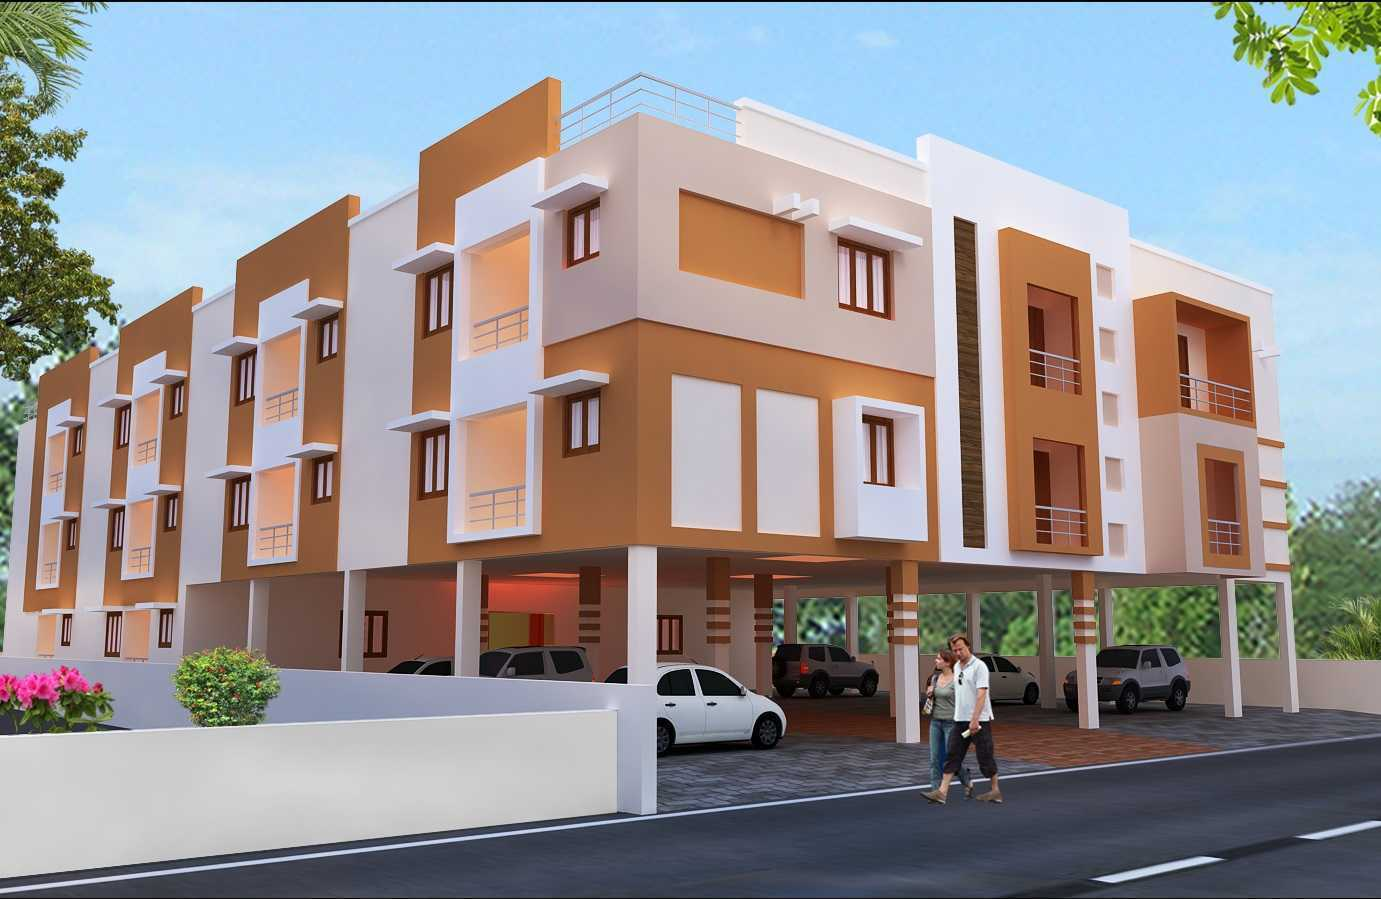
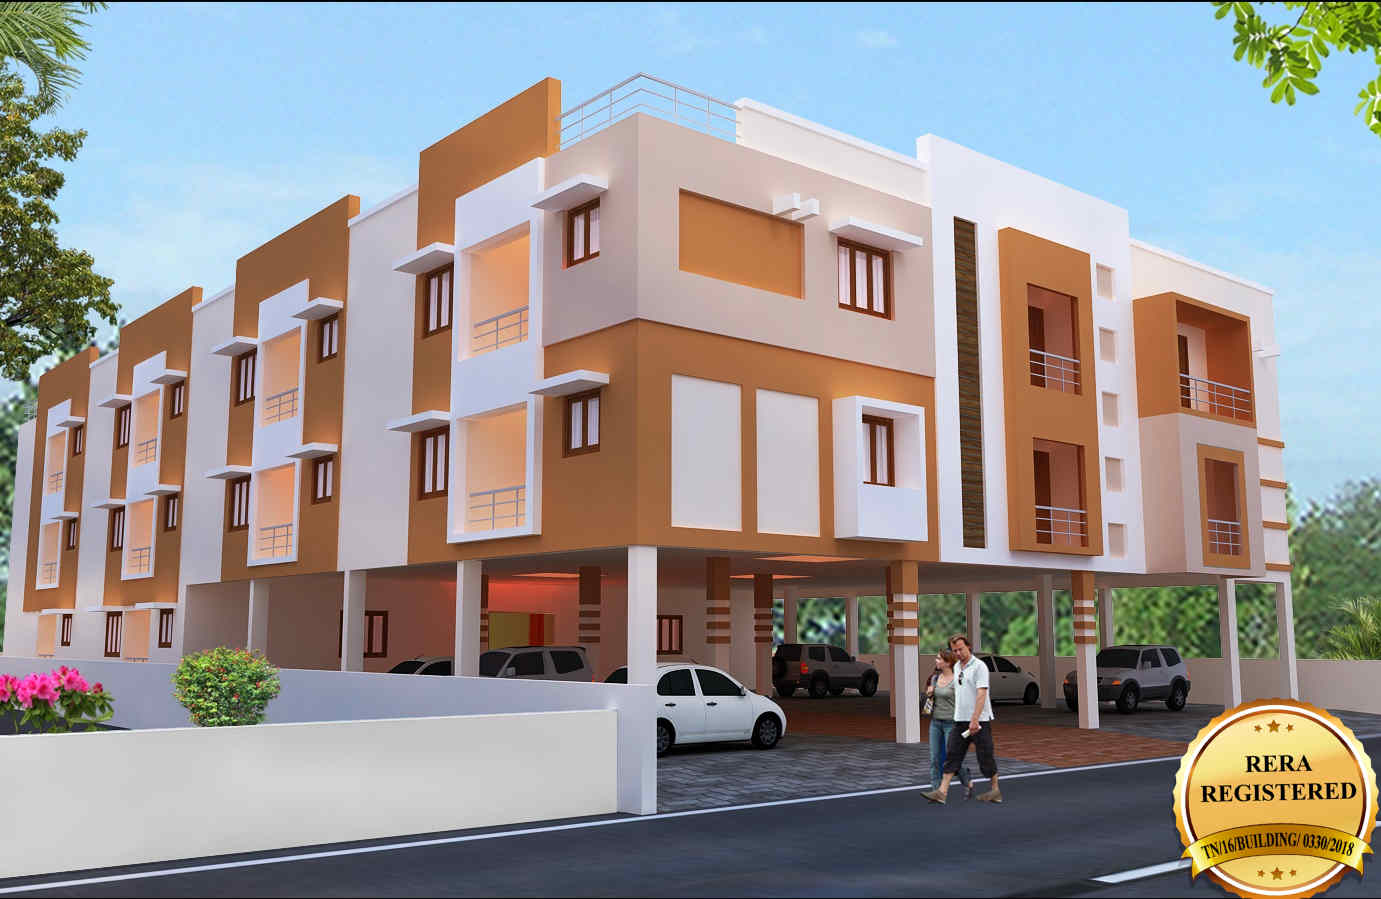
rera, credai added, times font, column layout in about

diff --git a/src/views/About.vue b/src/views/About.vue
@@ -2,13 +2,47 @@
   <div id="contact-page">
     <div class="h-300 pinot-noir__gradient">
       <div class="c c-white flex flex-col flex-aic flex-jcc h-100p">
-        <h2>MV Builders</h2>
+        <h2 class="times ttu">MV Builders</h2>
         <h5>Our improvement directly relates to our Experience</h5>
       </div>
     </div>
-    <div class="c">
-      <h2 class="c tac">MV Builders <br> <small class="mono">yours friendly Companion</small></h2>
+    <div class="c" hidden="true">
+      <h2 class="c tac times ttu">MV Builders<br> <small class="mono">yours friendly Companion</small></h2>
       <p class="para d-center"><span>We are widely known for lucid way of choosing grounds for construction in green expansive environment. Our immense experience in apartment building with affordable price range attracts the buyers easily. We also provide clear title and legal opinion from eminent lawyers. Our floor plans according to vasthu and sense of architecture with day light optimization, ventillation optimization, etc., are quite impressive. We are well known for using quality tools in construction, quality workers and quality jobs to provide complete housing solution.</span></p>
+      <h2 class="c tac">Our Growth</h2>
+      <p class="para d-center">Our best way of marketing is from the word of mouth from our existing satisfied customers becomes a member of MV family. We proudly say that all the families are living in a friendly healthy ambience from the day of moving in to our homes.</p>
+      <h2 class="c tac">Our Quality</h2>
+      <p class="para d-center">Quiet and experienced masonary teams, accurate finishing carpentry workers, excellent knowledgeable electricians, plumbers from their mother land of Orissa. Quality and updated painters will add on our profile for a very long duration as we are constantly engaging the same team for our works from 2001 onwards.</p>
+      <p class="para d-center">Even after completion of various projects small maintenance works requires by the esteemed clients be attended at their convenient time.</p>
+      <h2 class="c tac">Our Mantra</h2>
+      <p class="para d-center">All our projects earlier and now are situated in a lush green environment and we have a policy to provide a healthy positive atmosphere for the clients, daylight optimized architecture, adequate water supply, sanitary, road facilities and in particular (good uninterupted ) electric supply. In addition all our projects each house will have a marked car parking slot, modular kitchenate for kitchens, builtin wardrobes, lofts and lockers with wooden interiors for the bedrooms.</p>
+      <h2 class="c tac">Our Guides</h2>
+      <p class="para d-center">We got professional guidance from our beloved architect having experienced and specialized in floor plans plotted as per vasthu specifications and a good support from our structural consultant having the details in support to our architects vision. We proudly confers all our apartment buildings so far sold and doing now are with 100 percent vasthu compliance.</p>
+    </div>
+    <div class="c">
+      <h2 class="c tac times ttu">MV Builders<br> <small class="mono">yours friendly Companion</small></h2>
+      <p class="para d-center"><span>We are widely known for lucid way of choosing grounds for construction in green expansive environment. Our immense experience in apartment building with affordable price range attracts the buyers easily. We also provide clear title and legal opinion from eminent lawyers. Our floor plans according to vasthu and sense of architecture with day light optimization, ventillation optimization, etc., are quite impressive. We are well known for using quality tools in construction, quality workers and quality jobs to provide complete housing solution.</span></p>
+      <div class="row">
+        <div class="col-md2">
+          <h2 class="c tac">Our Growth</h2>
+          <p class="para d-center">Our best way of marketing is from the word of mouth from our existing satisfied customers becomes a member of MV family. We proudly say that all the families are living in a friendly healthy ambience from the day of moving in to our homes.</p>
+        </div>
+        <div class="col-md2">
+          <h2 class="c tac">Our Quality</h2>
+          <p class="para d-center">Quiet and experienced masonary teams, accurate finishing carpentry workers, excellent knowledgeable electricians, plumbers from their mother land of Orissa. Quality and updated painters will add on our profile for a very long duration as we are constantly engaging the same team for our works from 2001 onwards.</p>
+          <p class="para d-center">Even after completion of various projects small maintenance works requires by the esteemed clients be attended at their convenient time.</p>
+        </div>
+      </div>
+      <div class="row">
+        <div class="col-md2">
+          <h2 class="c tac">Our Mantra</h2>
+          <p class="para d-center">All our projects earlier and now are situated in a lush green environment and we have a policy to provide a healthy positive atmosphere for the clients, daylight optimized architecture, adequate water supply, sanitary, road facilities and in particular (good uninterupted ) electric supply. In addition all our projects each house will have a marked car parking slot, modular kitchenate for kitchens, builtin wardrobes, lofts and lockers with wooden interiors for the bedrooms.</p>
+        </div>
+        <div class="col-md2">
+          <h2 class="c tac">Our Guides</h2>
+          <p class="para d-center">We got professional guidance from our beloved architect having experienced and specialized in floor plans plotted as per vasthu specifications and a good support from our structural consultant having the details in support to our architects vision. We proudly confers all our apartment buildings so far sold and doing now are with 100 percent vasthu compliance.</p>
+        </div>
+      </div>
     </div>
     <div class="row c">
       <div class="col-md2">
@@ -40,24 +74,19 @@
       <div class="c c-white hero-padding"><h2>Founder</h2>
         <!-- <img src="https://source.unsplash.com/480x320?men" alt=""> -->
         <div class="row">
-          <div class="col-sm2">
-            <img src="@/assets/man.jpg" alt="Founder">
+          <div class="col-md2">
+            <img src="@/assets/man.jpg" alt="Founder" class="mw-100">
             <h5 class="mt2">K Muralidharan</h5>
-            <p class="para">Lorem ipsum dolor sit amet, consectetur adipisicing elit. Nobis minus amet consectetur, doloremque maxime molestias id, veniam nihil consequuntur nulla, tempore velit eveniet tenetur voluptates porro autem quis, iusto placeat.</p>
+            <p class="para">commenced career as early at 1987 experienced in various type of civil constructions. Having a rich exposure in apartment constructions both at coimbatore and trichy. Projects done so far have all the amenities in place and car parking each for all the flats in addition no hidden charges (ie) price includes everything. Having good work force for all types of civil constructions and interiors as we proudly say we have completed all our projects within the stipulated timeperiod. "</p>
           </div>
-          <div class="col-sm2 c lg-hide">
+          <div class="col-md2 c lg-hide">
             <h2 class="c">Decades of experience</h2>
             <h3 class="c">Pioneer in the housing field</h3>
           </div>
         </div>
       </div>
     </div>
-    <div class="bg-attached">
-      <img src="https://source.unsplash.com/1920x500?construction" alt="" class="mw-100">
-    </div>
-    <div class="c">
-      <h3>Feel free to contact us</h3>
-      <p>see contact page for further information.</p>
+    <div class="bg-attached h-500" style="background: url('https://source.unsplash.com/1920x800?construction');">
     </div>
   </div>
 </template>

diff --git a/src/views/Project.vue b/src/views/Project.vue
@@ -2,21 +2,23 @@
   <div id="project-page">
     <div class="h-300 purple-bliss__gradient">
       <div class="c c-white flex flex-col flex-aic flex-jcc h-100p">
-        <h2>MV Builders</h2>
+        <h2 class="times ttu">MV Builders</h2>
         <h5>Good Projects are the wealth of a Company</h5>
       </div>
     </div>
-    <h1 class="c">List of Our Projects</h1>
-    <p class="c"><span>Lorem ipsum dolor sit amet, consectetur adipisicing elit. A suscipit soluta, quis ducimus eum magni nostrum repellendus nobis, deserunt, aperiam accusantium inventore vero aliquam mollitia assumenda rem cumque, quo ea.</span><span>Voluptas commodi repellat totam, suscipit ad voluptatibus tempora vero, asperiores atque cum. Quaerat similique est laudantium, praesentium aperiam. Consequuntur quos consequatur, quam nihil minima architecto enim cum iste tempora ea?</span></p>
+    <!-- <h1 class="c">List of Our Projects</h1> -->
+    <!-- <h1 class="c">Our creations to make happy world</h1> -->
+    <h1 class="c">Our creations for happy world</h1>
+    <p class="c"><span>Happy to launch our new project in Boologa Vaikundam, Srirangam, have the entire people in the Universe have the ambition to live at their lifetime especially during their retired livinghoods. As our project situated very near to thayar sannadhi and the first project in srirangam having the mandatory registration with RERA numbered as 16/2018(verify) we hope MV Vistara will fulfill the ambitions of srirangam loving people spread over the entire Universe.</span></p>
     <div class="c">
       <h2 class="">Current Project:</h2>
       <div class="row c">
-        <div class="col-sm2">
-          <img src="@/assets/MV1.jpg" alt="" class="mw-100 h-400">
+        <div class="col-md2">
+          <img src="@/assets/MV2.jpg" alt="" class="mw-100">
         </div>
-        <div class="col-sm2">
-            <h3>MV Vistara</h3>
-          <p>Lorem ipsum dolor sit amet, consectetur adipisicing elit. Eveniet, explicabo amet accusantium, ratione suscipit, similique repellat eos asperiores ipsam praesentium corrupti. Omnis nisi quisquam sequi, harum, iusto repellat nihil optio!</p>
+        <div class="col-md2">
+            <h3>MV Vistara <small class="mono">defines itself</small></h3>
+          <p>Happy to launch our new project in Boologa Vaikundam, Srirangam, have the entire people in the Universe have the ambition to live at their lifetime especially during their retired livinghoods. As our project situated very near to thayar sannadhi and the first project in srirangam having the mandatory registration with RERA numbered as 16/2018(verify) we hope MV Vistara will fulfill the ambitions of srirangam loving people spread over the entire Universe.</p>
           <h4>Location Advantages</h4>
           <ul class="list-checked">
             <li>700 Meter from Srirangam Thayar Sannadhi.</li>
@@ -29,26 +31,26 @@
       <h2 class="hero-margin">Completed Projects</h2>
       <div class="accordion hero-margin">
         <div class="accordion-set">
-          <h3 class="accordion-title">Project 1 - 2015</h3>
+          <h3 class="accordion-title mb3 mt3">Project 1 - 2015</h3>
           <div class="accordion-data h-show">
             <img src="https://source.unsplash.com/1200x400?building" alt="" class="mw-100">
-            <h4>Title</h4>
+            <h4 class="mb3 mt3">Title</h4>
             <p>Lorem ipsum dolor sit amet, consectetur adipisicing elit. Culpa, ratione dignissimos eum quidem illo fuga quia. Eum quisquam, sint eveniet, excepturi vero obcaecati libero magnam, consequuntur recusandae aspernatur dolore iure!</p>
           </div>
         </div>
         <div class="accordion-set">
-          <h3 class="accordion-title">Project 2 - 2013</h3>
+          <h3 class="accordion-title mb3 mt3">Project 2 - 2013</h3>
           <div class="accordion-data">
             <img src="https://source.unsplash.com/1201x400?building" alt="" class="mw-100">
-              <h4>Title</h4>
+              <h4 class="mb3 mt3">Title</h4>
               <p>Lorem ipsum dolor sit amet, consectetur adipisicing elit. Non delectus iure recusandae ea, ex necessitatibus facere rerum blanditiis. Repellendus, non qui labore. Nobis possimus porro necessitatibus sed ea perspiciatis corporis.</p>
           </div>
         </div>
         <div class="accordion-set">
-          <h3 class="accordion-title">Project 3 - 2011</h3>
+          <h3 class="accordion-title mb3 mt3">Project 3 - 2011</h3>
           <div class="accordion-data">
             <img src="https://source.unsplash.com/1202x400?building" alt="" class="mw-100">
-              <h4>Title</h4>
+              <h4 class="mb3 mt3">Title</h4>
               <p>Lorem ipsum dolor sit amet, consectetur adipisicing elit. Recusandae natus, itaque est modi accusantium eum voluptatibus harum laboriosam voluptates quis ducimus architecto dolorum ipsum ex! Rem ex, adipisci provident porro.</p>
           </div>
         </div>

diff --git a/src/views/Contact.vue b/src/views/Contact.vue
@@ -2,25 +2,34 @@
   <div id="contact-page">
     <div class="h-300 twitch__gradient">
       <div class="c c-white flex flex-col flex-aic flex-jcc h-100p">
-        <h2>MV Builders</h2>
+        <h2 class="times ttu">MV Builders</h2>
         <h5>Good Contacts builds up the valuable harmony</h5>
       </div>
     </div>
-    <h1 class="c">Feel Free to Contact Us</h1>
-    <p class="c"><span>Lorem ipsum dolor sit amet, consectetur adipisicing elit. A suscipit soluta, quis ducimus eum magni nostrum repellendus nobis, deserunt, aperiam accusantium inventore vero aliquam mollitia assumenda rem cumque, quo ea.</span><span>Voluptas commodi repellat totam, suscipit ad voluptatibus tempora vero, asperiores atque cum. Quaerat similique est laudantium, praesentium aperiam. Consequuntur quos consequatur, quam nihil minima architecto enim cum iste tempora ea?</span></p>
-    <div class="flex flex-aib c">
-      <h3 class="p3">Email</h3>
-      <p><a href="mailto:murlidhar28@gmail.com">murlidhar28@gmail.com</a></p>
-    </div>
-    <div class="flex flex-aib c">
-      <h3 class="p3">Phone</h3>
-      <p><a href="tel:+919842430871">9842430871</a></p>
-    </div>
-    <div class="flex c">
-      <h4 class="p3">MS Vistara Location</h4>
-      <img src="@/assets/vistaralocation.jpg" alt="" class="mw-100 icon-small">
+    <div class="c">
+      <h1 class="">Feel Free to Contact Us</h1>
+      <div class="row">
+        <div class="col-lg2">
+          <p class="para hero-margin">Eventhough we are totally engaged in our own projects we are available for suggestions, improvements, vasthu corrections and any other type of housing related queries. With our wide experience we hope we can guide you in a appropriate manner.</p>
+        </div>
+        <div class="col-lg2">
+          <div class="flex flex-aib c">
+            <h3 class="p3">Email</h3>
+            <p><a href="mailto:murlidhar28@gmail.com">murlidhar28@gmail.com</a></p>
+          </div>
+          <div class="flex flex-aib c">
+            <h3 class="p3">Phone</h3>
+            <p><a href="tel:+919842430871">9842430871</a></p>
+          </div>
+          <div class="flex c">
+            <h4 class="p3">MS Vistara Location</h4>
+            <img src="@/assets/vistaralocation.jpg" alt="" class="mw-100 icon-small">
+          </div>
+        </div>
+      </div>
     </div>
     <div class="c">
+      <div class="warn-site para">Quick email service is currently not available</div>
       <h2>Quick Email:</h2>
       <ContactForm></ContactForm>
     </div>

diff --git a/src/views/Home.vue b/src/views/Home.vue
@@ -2,21 +2,21 @@
   <div class="home">
     <!-- <HelloWorld msg="Welcome to Your Vue.js App"/> -->
     <Carousel :images="images"></Carousel>
-    <h1 class="c">A warm welcome from MV builders</h1>
+    <h1 class="c">A warm welcome from <span class="times ttu">MV Builders</span></h1>
     <div class="warn-site c">
       <p><mark>please note:</mark> The website mvbuilders.in is under Construction.</p>
       <p>You may see irrelevant information and layout during this period.</p>
     </div>
     <div class="c tac">
-      <h2>Our Current Project <br> <small>MV Vistara Apartments</small></h2>
+      <h2>Our Current Project <br> <small class="times">MV Vistara Homes</small></h2>
     </div>
     <div class="row c">
-      <div class="col-sm2">
-        <img src="@/assets/MV1.jpg" alt="" class="mw-100 h-400">
+      <div class="col-md2">
+        <img src="@/assets/MV2.jpg" alt="" class="mw-100">
       </div>
-      <div class="col-sm2">
+      <div class="col-md2">
         <h3>MV Vistara</h3>
-        <p>Lorem ipsum dolor sit amet, consectetur adipisicing elit. Eveniet, explicabo amet accusantium, ratione suscipit, similique repellat eos asperiores ipsam praesentium corrupti. Omnis nisi quisquam sequi, harum, iusto repellat nihil optio!</p>
+        <p>Happy to launch our new project in Boologa Vaikundam, Srirangam, have the entire people in the Universe have the ambition to live at their lifetime especially during their retired livinghoods. As our project situated very near to thayar sannadhi and the first project in srirangam having the mandatory registration with RERA numbered as 16/2018(verify) we hope MV Vistara will fulfill the ambitions of srirangam loving people spread over the entire Universe.</p>
         <h4>Location Advantages</h4>
         <ul class="list-checked">
           <li>700 Meter from Srirangam Thayar Sannadhi.</li>
@@ -80,7 +80,7 @@ export default {
     return {
       images: [
         {
-          src: require("@/assets/MV1.jpg"),
+          src: require("@/assets/MV2.jpg"),
           alt: "mv brindhavan apartments",
           heading: "MV Vistara",
           caption: "caption for the photo"

diff --git a/src/App.vue b/src/App.vue
@@ -2,7 +2,7 @@
   <div id="app" >
     <header class="flex flex-jcsa z-1">
       <div id="brand">
-        <img src="@/assets/mvlogo.png" alt="" id="logo"><h3 class="inline-block vat">Builders</h3>
+        <img src="@/assets/mvlogo.png" alt="" id="logo"><h3 class="inline-block times vat ttu">Builders</h3>
       </div>
       <nav class="main-nav">
         <button id="mm-toggle" class="btn mm-toggle">Menu</button>
@@ -34,8 +34,10 @@
           </ul>
         </div>
         <div class="col-md3">
-          <h4>About</h4>
-          <p>Lorem ipsum dolor sit amet, consectetur adipisicing elit. Quaerat accusantium aliquam veniam tempore ea delectus aliquid dolores laudantium, impedit repudiandae expedita architecto, vero quisquam odio vel? Nemo, impedit cupiditate repellat.</p>
+          <!-- <h4>About</h4>
+          <p><span class="times ttu">MV Builders</span> </p> -->
+          <h5>Member of <span class="ttu">credai</span></h5>
+          <img src="@/assets/credai.png" alt="" class="mw-100" style="width: 240px;">
         </div>
       </div>
       <p class="m0 p2">&copy; 2018 - Crayola Design Studio</p>

diff --git a/public/index.html b/public/index.html
@@ -3,8 +3,11 @@
   <head>
     <meta charset="utf-8">
     <meta http-equiv="X-UA-Compatible" content="IE=edge">
+    <!-- <meta http-equiv="refresh" content="0" URL="http://mvbuilders.in/"> -->
     <meta name="viewport" content="width=device-width,initial-scale=1.0">
     <link rel="icon" href="<%= BASE_URL %>favicon.ico">
+    <!-- <link rel="canonical" href="http://mvbuilders.in/"> -->
+    <link rel="canonical" href="http://mvbuilders.in/index.html">
     <!-- <title>mvbuilders</title> -->
   </head>
   <body>

diff --git a/src/components/Carousel.vue b/src/components/Carousel.vue
@@ -6,7 +6,7 @@
       <div class="slidewrap por" v-for="image in images" :key="image.src">
         <div class="overlay">
           <p class="highlight--underline">{{image.caption}}</p>
-          <h1 class="highlight--underline">{{image.heading}}</h1>
+          <h1 class="highlight--underline times ttu">{{image.heading}}</h1>
         </div>
         <img  :src="image.src"  :alt="image.alt" >
       </div>

diff --git a/src/sass/partials/_helpers.scss b/src/sass/partials/_helpers.scss
@@ -30,6 +30,10 @@
     height: 400px;
 }
 
+.h-500 {
+  height: 500px;
+}
+
 .ov-h {
     overflow: hidden;
 }
@@ -212,12 +216,16 @@
   font-weight: 400;
 }
 
+.times {
+  font-family: "Times New Roman", Times, Baskerville, Georgia, serif;
+}
+
 .para {
   max-width: 640px;
 }
 
 .bg-attached {
-  background-attachment: fixed;
+  background-attachment: fixed !important;
 }
 
 .hero-margin {

diff --git a/src/sass/style.scss b/src/sass/style.scss
@@ -39,3 +39,4 @@ $global-init: false; // By default set to false, loaded with typesetted
 @import "partials/base";
 @import "partials/effects";
 @import "partials/gradients";
+@import "partials/adjustments";

diff --git a/src/sass/partials/_base.scss b/src/sass/partials/_base.scss
@@ -153,7 +153,6 @@ body {
 }
 
 footer {
-  margin-top: 40px;
   padding-top: 40px;
   background-color: black;
   // background-color: var(--bg-dark);

diff --git a/src/sass/partials/_adjustments.scss b/src/sass/partials/_adjustments.scss
@@ -1,0 +1,3 @@
+blockquote {
+  margin-right: 0;
+}

diff --git a/issues.md b/issues.md
@@ -1,0 +1,8 @@
+production about page error - copied project page and edited the about contents
+
+unable to prerender all routes (/project)
+mounted() -> created() or mounted() -> beforeMount()
+
+strategy don't prerender if error occurs
+
+never refresh the same document like / and /index.html
